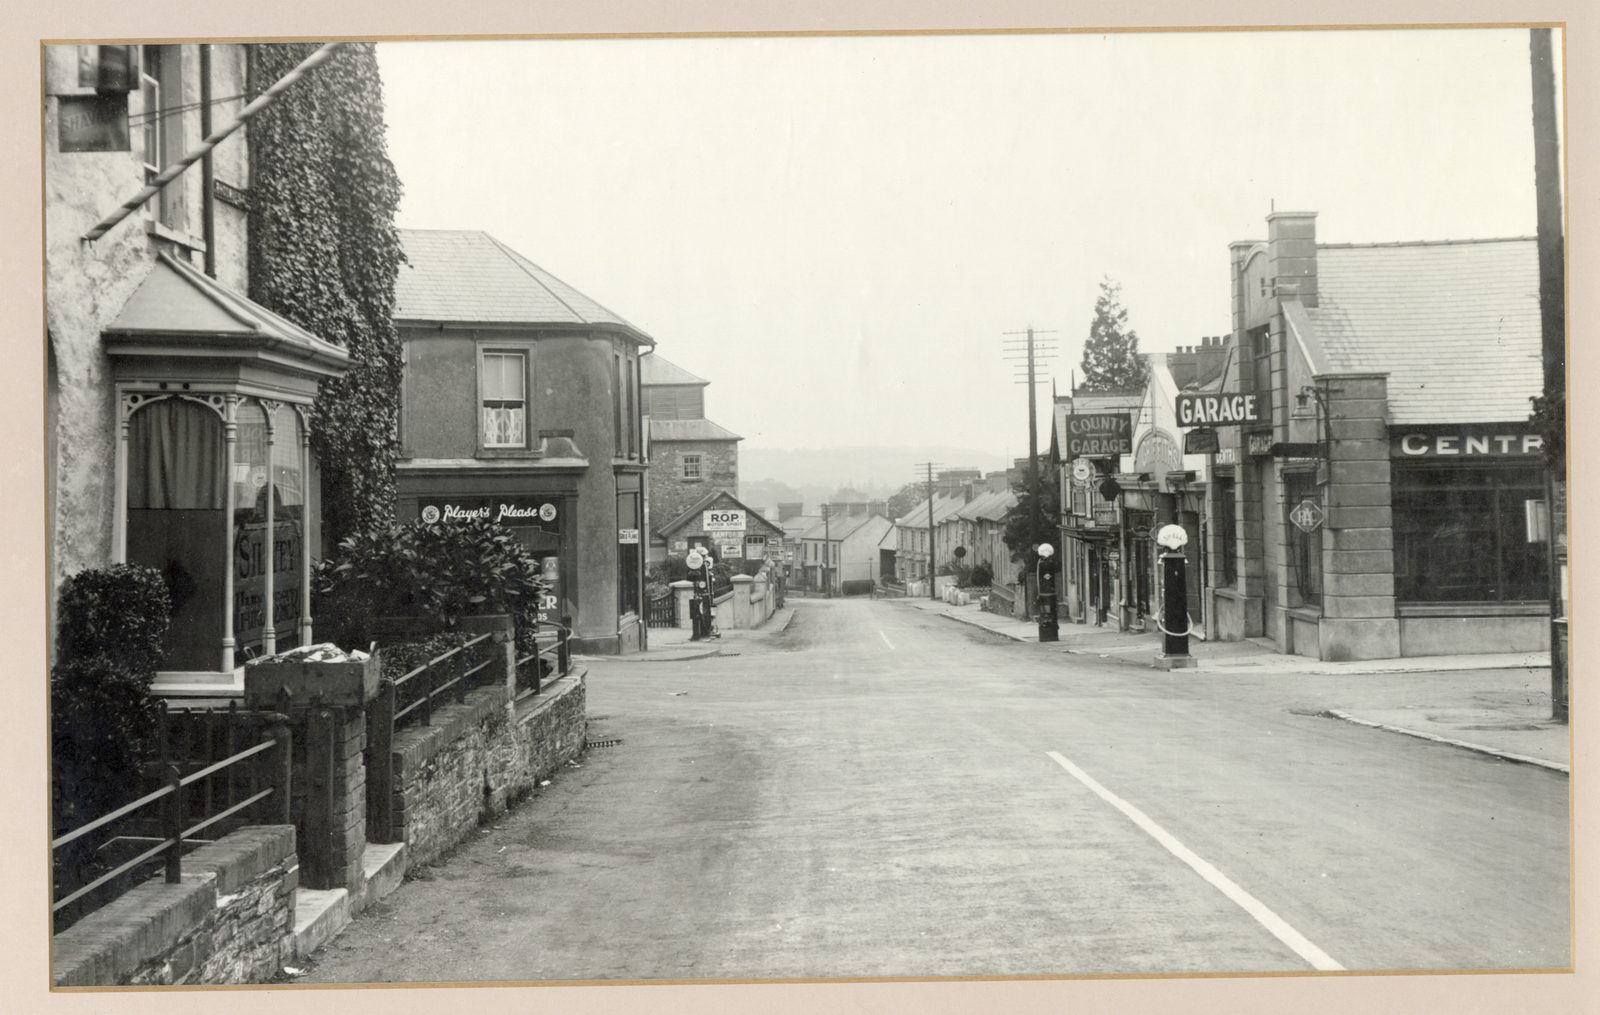
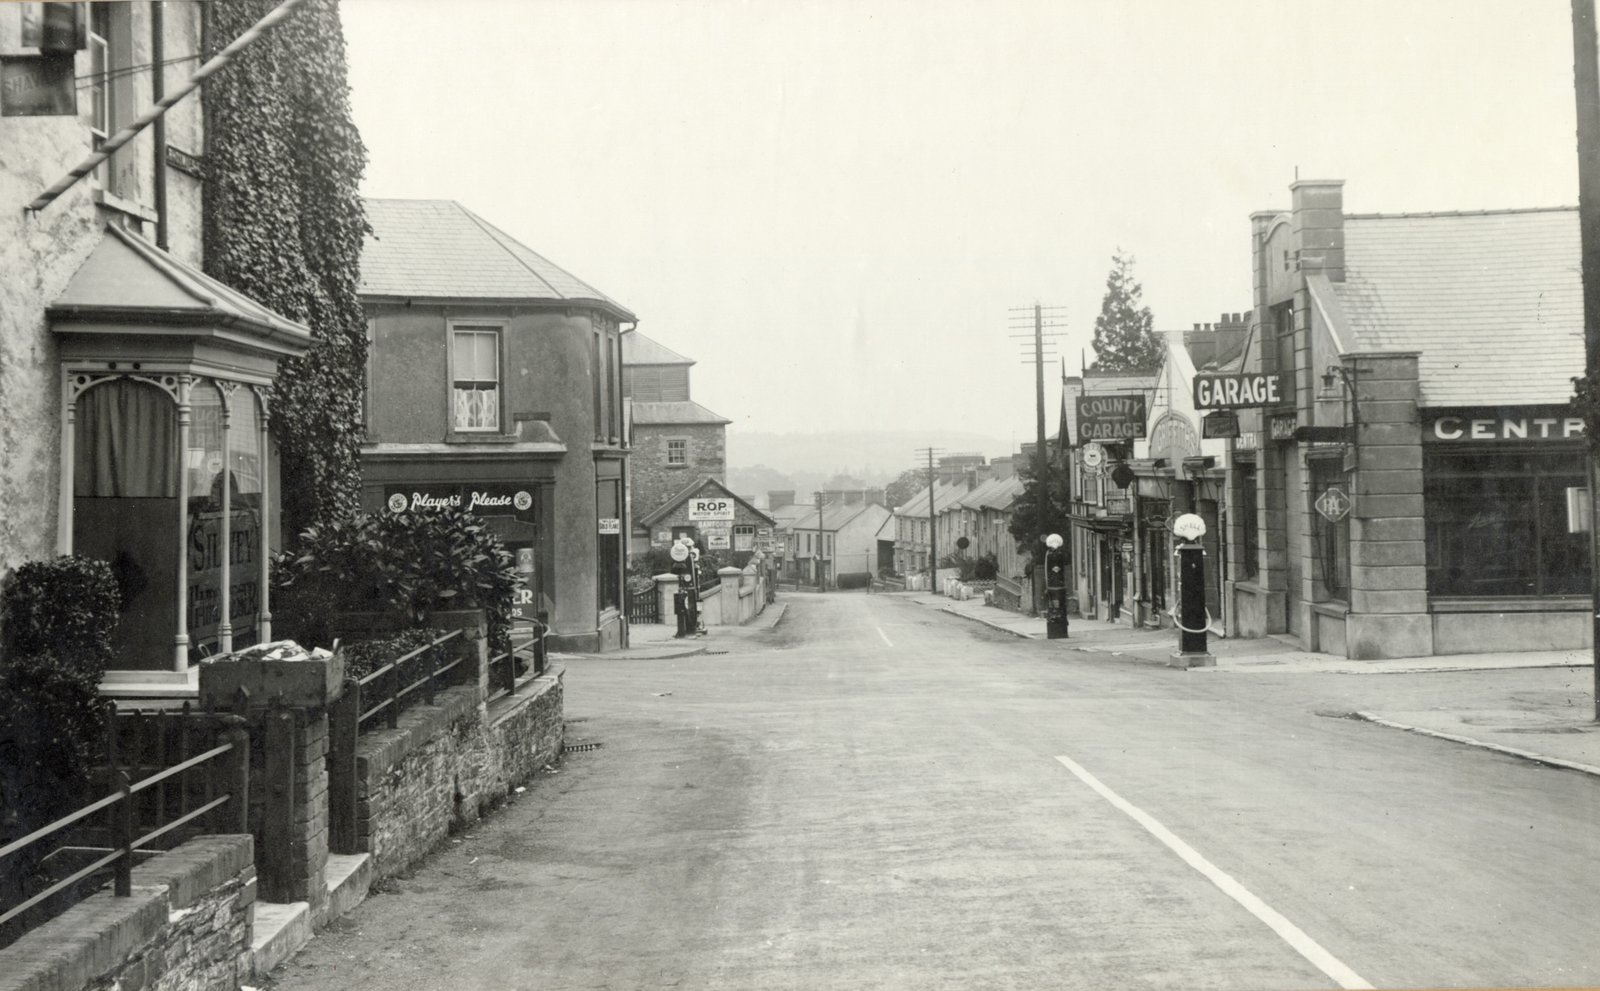
Re-crop four Harries photographs to the print, as the independent check asked
Claude-Session: https://claude.ai/code/session_01ANKHYYuS7i4vchn3gUDM5a

diff --git a/docs/research/dc-harries-photographs.md b/docs/research/dc-harries-photographs.md
@@ -108,7 +108,7 @@ Written 2026-10-09 from pages fetched that day; the images were downloaded and e
 ## What was found
 
 31 photographs, each downloaded at the largest size PCW serves (about 2,100 to 3,100 px on the long edge),
-cropped to the print (the scans include the cream mount; Corrected 2026-10-09 (independent check): 2281916, 2281931, 2281961 and 2282186 still keep some of the mount), and saved at most 1,600 px on the long edge as
+cropped to the print (the scans include the cream mount; Corrected 2026-10-09 (independent check): 2281916, 2281931, 2281961 and 2282186 kept some of the mount and were re-cropped to the print the same day from the PCW originals), and saved at most 1,600 px on the long edge as
 JPEG in `public/photos/harries/<PCW item id>.jpg` (8.7 MB in all). The data, credits and placements are in
 `src/content/photographs.ts`. Titles are PCW's own. "Shows" is what the photograph shows, as looked at on
 2026-10-09, not the caption.
